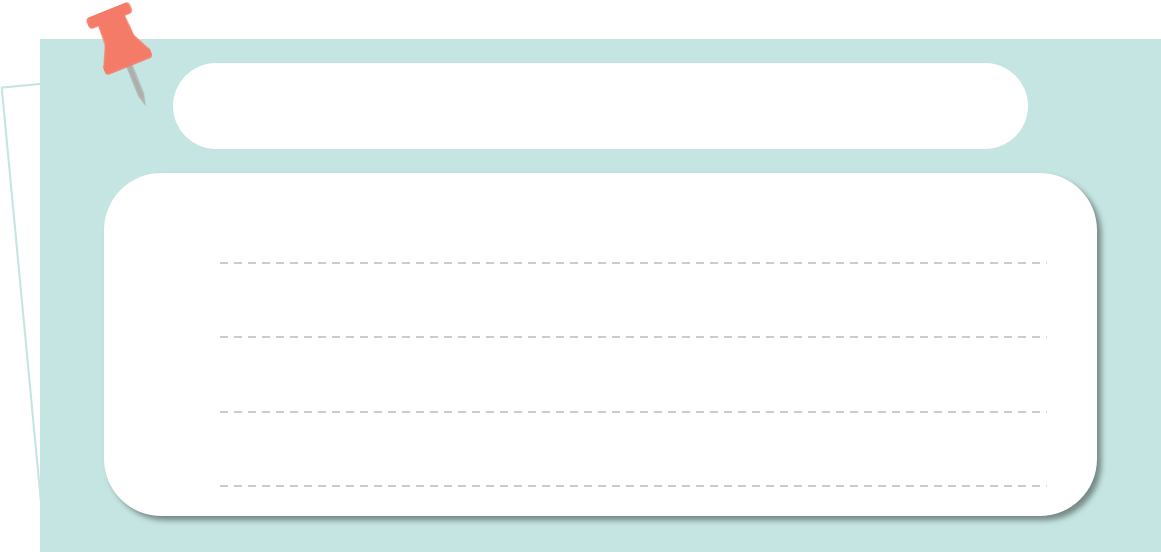
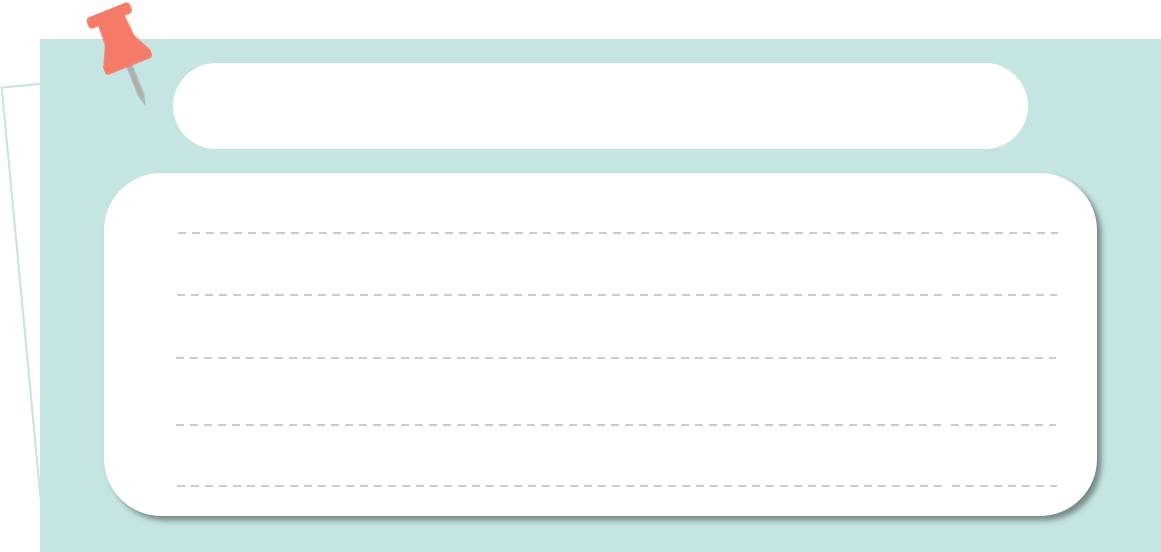
duk_04_01_0003 fix bug

diff --git a/Grade_04/duk_04_01_0003/duk_04_01_0003_201.html b/Grade_04/duk_04_01_0003/duk_04_01_0003_201.html
@@ -65,6 +65,7 @@
 
         .page_2 .wrapImg img {
             height: 520px;
+            width: 100%;
         }
 
         .page_2 .topText {
@@ -81,9 +82,9 @@
             position: absolute;
             height: 60px;
             padding: 0;
-            left: 290px;
+            left: 194px;
             box-shadow: none;
-            width: 830px;
+            width: 1000px;
         }
 
         .page_2 .noteText.noLine .textareaWrap {
@@ -92,19 +93,20 @@
         }
 
         .page_2 .noteText.note1 {
-            top: 185px;
+            top: 155px;
         }
 
         .page_2 .noteText.note2 {
-            top: 255px;
+            top: 214px;
         }
 
         .page_2 .noteText.note3 {
-            top: 326px;
+            top: 273px;
         }
 
         .page_2 .noteText.note4 {
-            top: 398px;
+            top: 335px;
+            height: 120px;
         }
 
         .page_2 .noteText .text-exam.flex-wrap {
@@ -113,23 +115,23 @@
 
         .check_list {
             position: absolute;
-            left: 240px;
+            left: 140px;
         }
 
         .check_list.check1 {
-            top: 185px;
+            top: 170px;
         }
 
         .check_list.check2 {
-            top: 258px;
+            top: 230px;
         }
 
         .check_list.check3 {
-            top: 330px;
+            top: 290px;
         }
 
         .check_list.check4 {
-            top: 400px;
+            top: 352px;
         }
 
         .check_list .check_view .check_box {
@@ -159,6 +161,11 @@
         .page_1 .noteText .blueT {
             text-align: left;
         }
+
+        .check_list .check_view .check_box {
+            width: 50px;
+            height: 50px;
+        }
     </style>
 </head>
 
@@ -175,7 +182,7 @@
             <div class="basicSlider contentsBox" data-slide-container="main">
                 <ul class="basicSlider_tabs" data-tabs="">
                     <li data-hover="" data-text="나는 우리 반 정직 약속을 무엇으로 정하고 싶은지 생각해 봅시다." data-gap="true">물음</li>
-                    <li data-hover="" data-text="친구들과 함께 우리 반 정직 약속을 정하고 지켜 봅시다.">활동</li>
+                    <li data-hover="" data-text="친구들과 함께 우리 반 정직 약속을 정하고 지켜봅시다.">활동</li>
                 </ul>
                 <ul class="basicSlider_slides" data-slides="">
                     <li class="page_1" data-quiz="toggle">
@@ -187,9 +194,10 @@
                                 </div>
                                 <div class="noteText noLine">
                                     <div class="textareaWrap">
-                                        <textarea style="letter-spacing: -2.4px;" class="textLine afterDisplay" type="text" placeholder="직접 쓰기"
-                                            data-input-obj="" data-answer=" " onfocus="" onblur="placeholder='직접 쓰기'"
-                                            autocomplete="off" spellcheck="false"></textarea>
+                                        <textarea style="letter-spacing: -2.4px;" class="textLine afterDisplay"
+                                            type="text" placeholder="직접 쓰기" data-input-obj="" data-answer=" " onfocus=""
+                                            onblur="placeholder='직접 쓰기'" autocomplete="off"
+                                            spellcheck="false"></textarea>
                                     </div>
                                     <div class="text-exam flex-wrap">
                                         <div class="blueT" style="letter-spacing: -2.4px;">
@@ -240,7 +248,7 @@
                                 </div>
                                 <div class="text-exam flex-wrap">
                                     <div class="blueT">
-                                        <p>주인 없는 물건은 분실물 함에 넣기</p>
+                                        <p>아무도 없는 교실에서 장난치지 않기</p>
                                     </div>
                                 </div>
                             </div>
@@ -252,7 +260,7 @@
                                 </div>
                                 <div class="text-exam flex-wrap">
                                     <div class="blueT">
-                                        <p>아무도 없는 교실에서 장난치지 않기</p>
+                                        <p>돌아다니는 물건은 분실물함에 넣기</p>
                                     </div>
                                 </div>
                             </div>
@@ -264,7 +272,7 @@
                                 </div>
                                 <div class="text-exam flex-wrap">
                                     <div class="blueT">
-                                        <p>차별하지 않고 서로 동등하게 대하기</p>
+                                        <p style="letter-spacing: -2.8px;">피구할 때 공에 맞으면 심판이 못 봤더라도 스스로 나가기</p>
                                     </div>
                                 </div>
                             </div>
@@ -276,7 +284,7 @@
                                 </div>
                                 <div class="text-exam flex-wrap">
                                     <div class="blueT">
-                                        <p>누가 보지 않아도 학급 약속 잘 지키기</p>
+                                        <p>숙제 자료를 인터넷에서 찾았으면 자료를 사용할 때 출처를 밝히기</p>
                                     </div>
                                 </div>
                             </div>

diff --git a/Grade_04/duk_04_01_0003/duk_04_01_0003_301.html b/Grade_04/duk_04_01_0003/duk_04_01_0003_301.html
@@ -163,7 +163,7 @@
     <div id="wrap" class="math">
         <header class="twoLine" style="letter-spacing: -1px;">
             <div class="title-icon blue" data-show="1">실천 <em>탄탄</em></div>
-            <div class="title-text ">정직 등대의 불빛을 따라가며 정직한 행동을 연습한 후, 느낀 점을 적어 봅시다.</div>
+            <div class="title-text ">정직 등대의 불빛을 따라가며 정직한 행동을 연습한 후 느낀 점을 적어 봅시다.</div>
         </header>
         <main>
 
@@ -197,7 +197,7 @@
                         <div class="study_guide"><em>얼굴</em>을 <em>클릭</em>하세요.</div>
                         <div class="self-check">
                             <div class="checkWrap">
-                                <div class="text_box">정직을 선택하기 위한 실천 방법을 익힐 수 있나요?</div>
+                                <div class="text_box">정직을 선택하기 위한 실천 방법을 익혔나요?</div>
                                 <div class="icon-box">
                                     <div class="wrap">
                                         <div class="button-smile icon1"></div>
@@ -211,7 +211,7 @@
                                 </div>
                             </div>
                             <div class="checkWrap">
-                                <div class="text_box">정직한 생활을 실천하겠다는 다짐을 했나요?</div>
+                                <div class="text_box">정직을 실천하겠다고 다짐했나요?</div>
                                 <div class="icon-box">
                                     <div class="wrap">
                                         <div class="button-smile icon1"></div>
